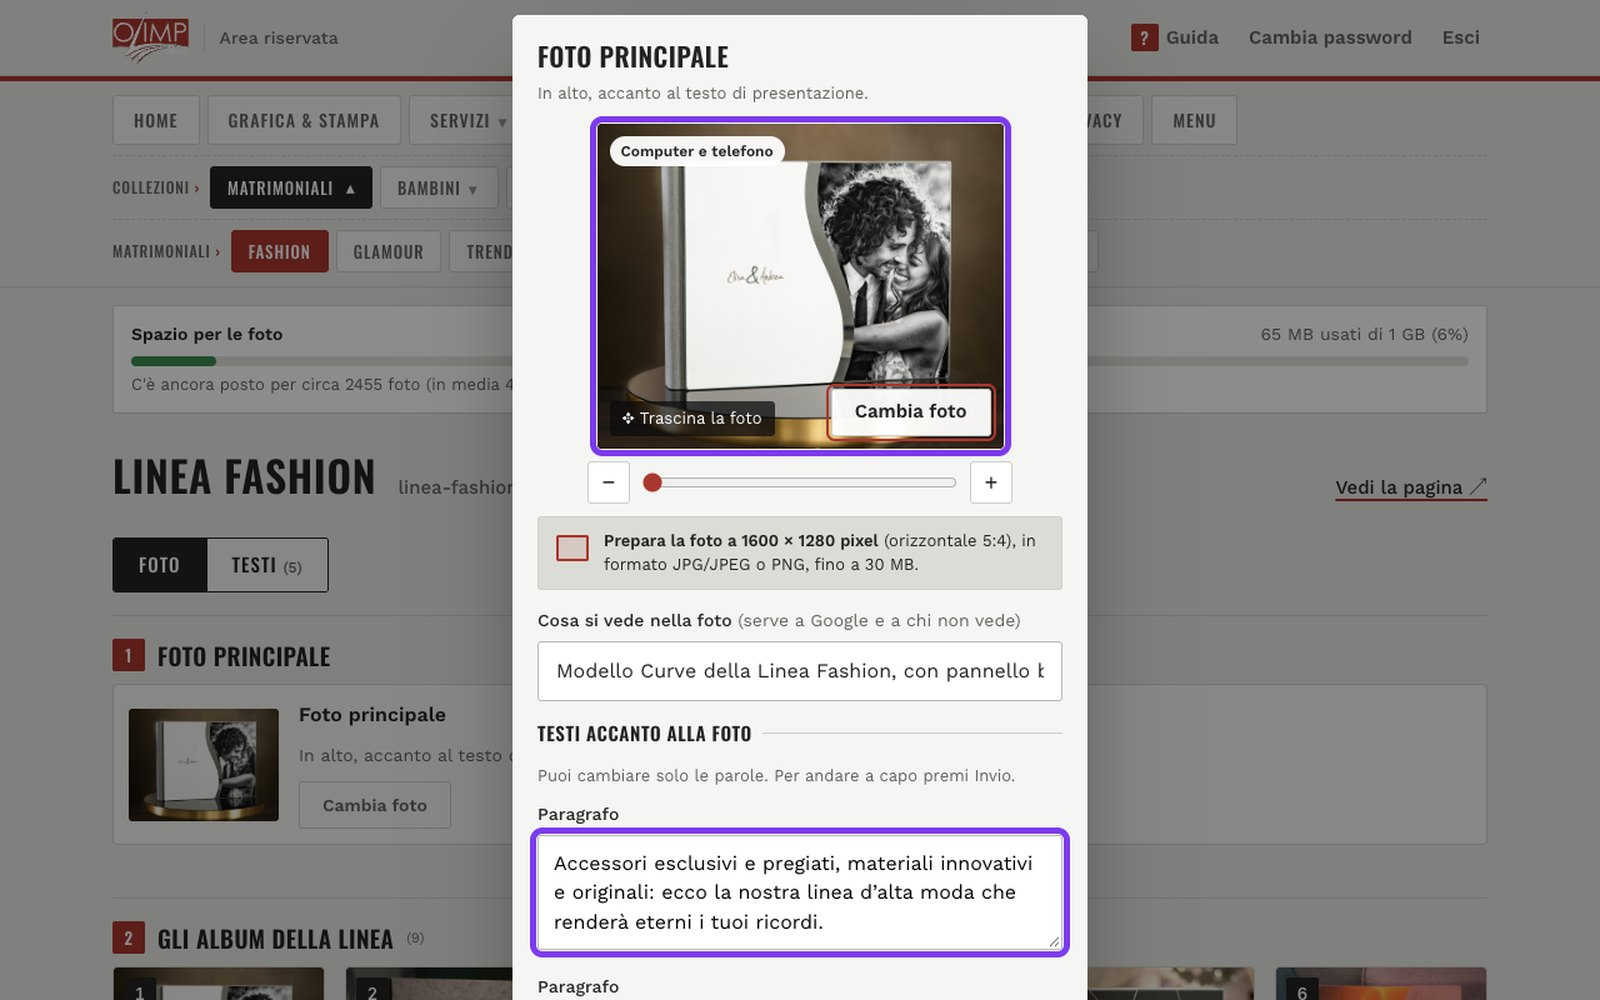
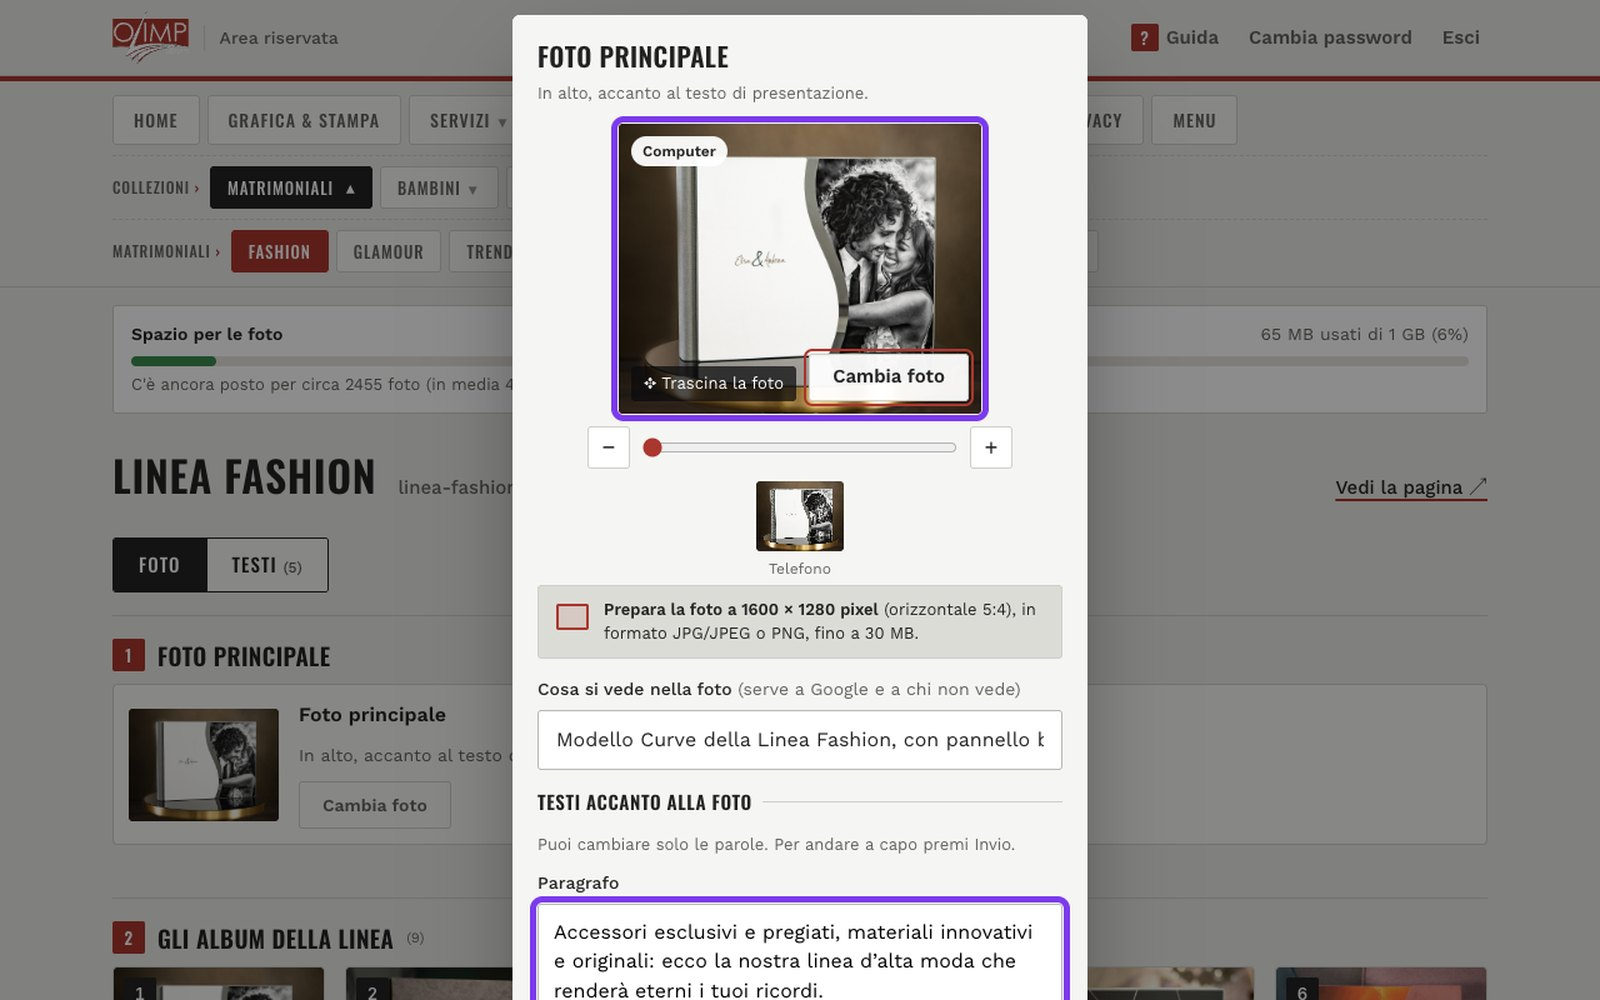
Area riservata: nell'anteprima sempre anche la vista Telefono (come inkubo 6.12); schermate della guida rifatte; versione 3.30 nel LEGGIMI

Changed region(s): [[0.3125, 0.093, 0.6875, 1.0]]

diff --git a/area-riservata.html b/area-riservata.html
@@ -597,7 +597,7 @@ input[type=text],input[type=password]{border-radius:3px;background:#fff;border-c
       <h3 id="g-aggiungere-t">Aggiungere una foto</h3>
       <div class="g-passo"><span class="num">1</span><p>In alto scegli la <b>pagina</b> del sito da modificare, per esempio <b>Collezioni</b>, poi <b>Matrimoniali</b>, poi <b>Fashion</b>.</p><a href="images/guida/tab.jpg" class="g-zoom" data-punti="42.66,8.75,10.55,6.50;12.66,15.88,11.09,5.75;13.98,22.25,7.03,5.75" aria-label="Ingrandisci la schermata"><img src="images/guida/tab.jpg" alt="Il menu delle pagine in alto con Collezioni, Matrimoniali e Fashion evidenziati" width="1600" height="1000" loading="lazy" decoding="async"></a></div>
       <div class="g-passo"><span class="num">2</span><p>Clicca la casella grigia con il <b>+</b>, in fondo alle foto della galleria (per esempio <b>Gli album della linea</b>). Si apre la finestra per scegliere il file: scegli la foto e clicca <b>Apri</b>.</p><a href="images/guida/piu.jpg" class="g-zoom" data-punti="50.16,71.62,14.22,26.50" aria-label="Ingrandisci la schermata"><img src="images/guida/piu.jpg" alt="La casella con il + in fondo alla galleria" width="1600" height="1000" loading="lazy" decoding="async"></a></div>
-      <div class="g-passo"><span class="num">3</span><p>L'anteprima è la foto <b>esattamente come sul sito</b> (quella grande è il computer, sotto, più piccola, il telefono se è diverso). <b>Trascina la foto</b> in qualsiasi direzione e, se vuoi, <b>ingrandiscila</b> con la barra sotto (o con due dita, o con la rotellina del mouse) per scegliere la parte che si vede: si salva così. Poi scrivi il <b>titolo</b> (il nome del modello, che compare sotto la foto) e clicca <b>Aggiungi</b>. Se hai sbagliato foto, clicca <b>Cambia foto</b>.</p><a href="images/guida/nuova.jpg" class="g-zoom" data-punti="36.02,17.12,27.97,34.00;33.12,72.00,33.75,7.50;58.13,84.00,8.75,7.00" aria-label="Ingrandisci la schermata"><img src="images/guida/nuova.jpg" alt="La finestra per aggiungere una foto: la foto da trascinare, il titolo scritto e Aggiungi" width="1600" height="1000" loading="lazy" decoding="async"></a></div>
+      <div class="g-passo"><span class="num">3</span><p>L'anteprima è la foto <b>esattamente come sul sito</b> (quella grande è il computer, sotto, più piccola, il telefono). <b>Trascina la foto</b> in qualsiasi direzione e, se vuoi, <b>ingrandiscila</b> con la barra sotto (o con due dita, o con la rotellina del mouse) per scegliere la parte che si vede: si salva così. Poi scrivi il <b>titolo</b> (il nome del modello, che compare sotto la foto) e clicca <b>Aggiungi</b>. Se hai sbagliato foto, clicca <b>Cambia foto</b>.</p><a href="images/guida/nuova.jpg" class="g-zoom" data-punti="37.42,13.63,25.16,30.50;33.12,75.38,33.75,7.50;58.13,87.38,8.75,7.00" aria-label="Ingrandisci la schermata"><img src="images/guida/nuova.jpg" alt="La finestra per aggiungere una foto: la foto da trascinare, il titolo scritto e Aggiungi" width="1600" height="1000" loading="lazy" decoding="async"></a></div>
       <div class="g-passo"><span class="num">4</span><p>La foto nuova lampeggia in rosso. Se vuoi spostarla, <b>tieni premuto il clic sulla foto e trascinala</b> nel posto che preferisci; altrimenti resta ultima. Poi clicca <b>Conferma e salva</b> nella barra in basso.</p><a href="images/guida/nuova-sel.jpg" class="g-zoom" data-punti="79.22,45.62,14.22,25.50;57.19,89.75,13.91,7.00" aria-label="Ingrandisci la schermata"><img src="images/guida/nuova-sel.jpg" alt="La foto nuova evidenziata e il pulsante Conferma e salva" width="1600" height="1000" loading="lazy" decoding="async"></a></div>
       <div class="g-passo"><span class="num">5</span><p>Si apre la finestra del salvataggio: aspetta che la barra arrivi in fondo e clicca <b>OK</b>. Il sito si aggiorna da solo entro qualche minuto.</p><a href="images/guida/salvato.jpg" class="g-zoom" data-punti="44.84,60.00,10.31,7.00" aria-label="Ingrandisci la schermata"><img src="images/guida/salvato.jpg" alt="La finestra Salvataggio riuscito correttamente con il pulsante OK" width="1600" height="1000" loading="lazy" decoding="async"></a></div>
     </section>
@@ -610,18 +610,18 @@ input[type=text],input[type=password]{border-radius:3px;background:#fff;border-c
     <section class="g-sez" id="g-rinominare" aria-labelledby="g-rinominare-t">
       <h3 id="g-rinominare-t">Modificare o rinominare una foto</h3>
       <div class="g-passo"><span class="num">1</span><p>Clicca la foto, poi clicca <b>Modifica o elimina</b> nella barra in basso.</p><a href="images/guida/modifica.jpg" class="g-zoom" data-punti="35.16,89.75,14.45,7.00" aria-label="Ingrandisci la schermata"><img src="images/guida/modifica.jpg" alt="La barra in basso con il pulsante Modifica o elimina" width="1600" height="1000" loading="lazy" decoding="async"></a></div>
-      <div class="g-passo"><span class="num">2</span><p>Correggi il <b>titolo</b> e clicca <b>Salva</b>. Puoi anche <b>trascinare e ingrandire</b> la foto nell'anteprima per cambiare la parte che si vede, oppure metterne un'altra con <b>Cambia foto</b>.</p><a href="images/guida/rinomina.jpg" class="g-zoom" data-punti="36.02,15.50,27.97,34.00;33.12,70.38,33.75,7.50;59.92,82.38,6.95,7.00" aria-label="Ingrandisci la schermata"><img src="images/guida/rinomina.jpg" alt="La finestra di modifica con il titolo cambiato e il pulsante Salva" width="1600" height="1000" loading="lazy" decoding="async"></a></div>
+      <div class="g-passo"><span class="num">2</span><p>Correggi il <b>titolo</b> e clicca <b>Salva</b>. Puoi anche <b>trascinare e ingrandire</b> la foto nell'anteprima per cambiare la parte che si vede, oppure metterne un'altra con <b>Cambia foto</b>.</p><a href="images/guida/rinomina.jpg" class="g-zoom" data-punti="37.42,12.12,25.16,30.50;33.12,73.88,33.75,7.50;59.92,85.88,6.95,7.00" aria-label="Ingrandisci la schermata"><img src="images/guida/rinomina.jpg" alt="La finestra di modifica con il titolo cambiato e il pulsante Salva" width="1600" height="1000" loading="lazy" decoding="async"></a></div>
     </section>
     <section class="g-sez" id="g-eliminare" aria-labelledby="g-eliminare-t">
       <h3 id="g-eliminare-t">Eliminare una foto</h3>
       <div class="g-passo solo-testo"><span class="num">1</span><p>Clicca la foto, poi clicca <b>Modifica o elimina</b> nella barra in basso (come per rinominare).</p></div>
-      <div class="g-passo"><span class="num">2</span><p>Clicca <b>Elimina</b> in basso a sinistra nella finestra. Il pulsante diventa rosso con scritto <b>Sì, elimina</b>: cliccalo di nuovo per confermare.</p><a href="images/guida/elimina.jpg" class="g-zoom" data-punti="33.12,82.38,9.92,7.00" aria-label="Ingrandisci la schermata"><img src="images/guida/elimina.jpg" alt="Il pulsante rosso Sì, elimina" width="1600" height="1000" loading="lazy" decoding="async"></a></div>
+      <div class="g-passo"><span class="num">2</span><p>Clicca <b>Elimina</b> in basso a sinistra nella finestra. Il pulsante diventa rosso con scritto <b>Sì, elimina</b>: cliccalo di nuovo per confermare.</p><a href="images/guida/elimina.jpg" class="g-zoom" data-punti="33.12,85.88,9.92,7.00" aria-label="Ingrandisci la schermata"><img src="images/guida/elimina.jpg" alt="Il pulsante rosso Sì, elimina" width="1600" height="1000" loading="lazy" decoding="async"></a></div>
       <p class="g-nota rossa">L'eliminazione è definitiva: la foto sparisce dal sito. Se non clicchi «Sì, elimina» non succede nulla.</p>
     </section>
     <section class="g-sez" id="g-fisse" aria-labelledby="g-fisse-t">
       <h3 id="g-fisse-t">Cambiare le foto fisse</h3>
       <div class="g-passo"><span class="num">1</span><p>Le altre foto delle pagine (la foto principale accanto al testo, i riquadri delle linee e dei prodotti, le strisce delle collezioni) hanno un posto fisso: clicca <b>Cambia foto</b> accanto a quella da cambiare.</p><a href="images/guida/fissa.jpg" class="g-zoom" data-punti="18.20,64.25,10.47,6.25" aria-label="Ingrandisci la schermata"><img src="images/guida/fissa.jpg" alt="Una foto fissa con il pulsante Cambia foto" width="1600" height="1000" loading="lazy" decoding="async"></a></div>
-      <div class="g-passo"><span class="num">2</span><p>Nella finestra vedi la foto come sul sito (computer e telefono): puoi <b>trascinarla e ingrandirla</b> per cambiare la parte che si vede, oppure clicca <b>Cambia foto</b> e scegli quella nuova. Scrivi in breve cosa si vede (serve a Google). Più sotto, in <b>Testi accanto alla foto</b>, puoi cambiare anche i testi che stanno vicino a quella foto nella pagina (titolo, descrizione…). Poi clicca <b>Salva</b>.</p><a href="images/guida/fissa-scheda.jpg" class="g-zoom" data-punti="36.88,11.62,26.33,34.00;33.12,82.75,33.75,13.00" aria-label="Ingrandisci la schermata"><img src="images/guida/fissa-scheda.jpg" alt="La finestra per cambiare una foto: la foto da trascinare con Cambia foto e i testi accanto alla foto" width="1600" height="1000" loading="lazy" decoding="async"></a></div>
+      <div class="g-passo"><span class="num">2</span><p>Nella finestra vedi la foto come sul sito (computer e telefono): puoi <b>trascinarla e ingrandirla</b> per cambiare la parte che si vede, oppure clicca <b>Cambia foto</b> e scegli quella nuova. Scrivi in breve cosa si vede (serve a Google). Più sotto, in <b>Testi accanto alla foto</b>, puoi cambiare anche i testi che stanno vicino a quella foto nella pagina (titolo, descrizione…). Poi clicca <b>Salva</b>.</p><a href="images/guida/fissa-scheda.jpg" class="g-zoom" data-punti="38.20,11.62,23.59,30.50;33.12,89.62,33.75,10.38" aria-label="Ingrandisci la schermata"><img src="images/guida/fissa-scheda.jpg" alt="La finestra per cambiare una foto: la foto da trascinare con Cambia foto e i testi accanto alla foto" width="1600" height="1000" loading="lazy" decoding="async"></a></div>
       <p class="g-nota">Ogni pagina è indipendente: una foto cambiata in una pagina resta uguale in tutte le altre (per esempio la striscia «Album eventi» della Home e quella di Collezioni si cambiano separatamente).</p>
     </section>
     <section class="g-sez" id="g-formati" aria-labelledby="g-formati-t">
@@ -1374,13 +1374,8 @@ input[type=text],input[type=password]{border-radius:3px;background:#fff;border-c
     img.style.objectFit = ''; img.style.objectPosition = ''; img.style.filter = ''; box.style.background = '';
     misuraSito(pagina, trova).then(function (l) {
       if (box.dataset.vista !== k || !l.length) return;
-      // viste uguali (stessa forma e inquadratura) diventano una sola: «Computer e telefono»
-      var u = [];
-      l.forEach(function (v) {
-        var g = u.filter(function (x) { return Math.max(x.r / v.r, v.r / x.r) < 1.02 && x.fit === v.fit && x.pos === v.pos && x.fitN === v.fitN && x.posN === v.posN && x.filtro === v.filtro; })[0];
-        if (g) g.nome += ' e ' + v.nome.toLowerCase(); else u.push(Object.assign({}, v));
-      });
-      l = u; box._viste = l;
+      l = l.map(function (v) { return Object.assign({}, v); }); // sempre anche la vista Telefono, pure se è uguale (deciso da Mark)
+      box._viste = l;
       box.style.setProperty('--r', String(l[0].r)); box.style.background = l[0].fondo || '';
       var n = box.querySelector('.vista-nome'); n.textContent = l[0].nome; n.hidden = false;
       l.slice(1).forEach(function (v) {
